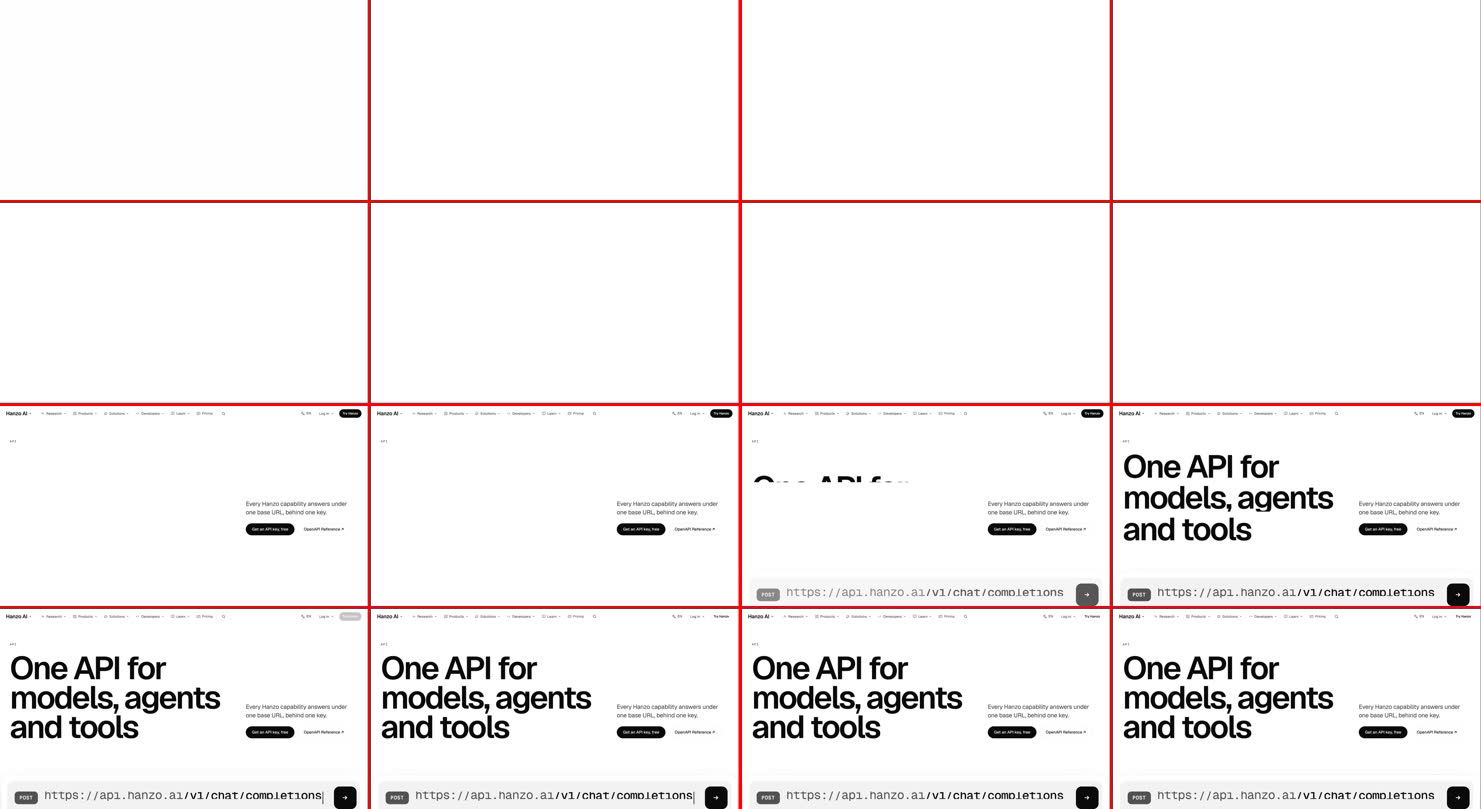
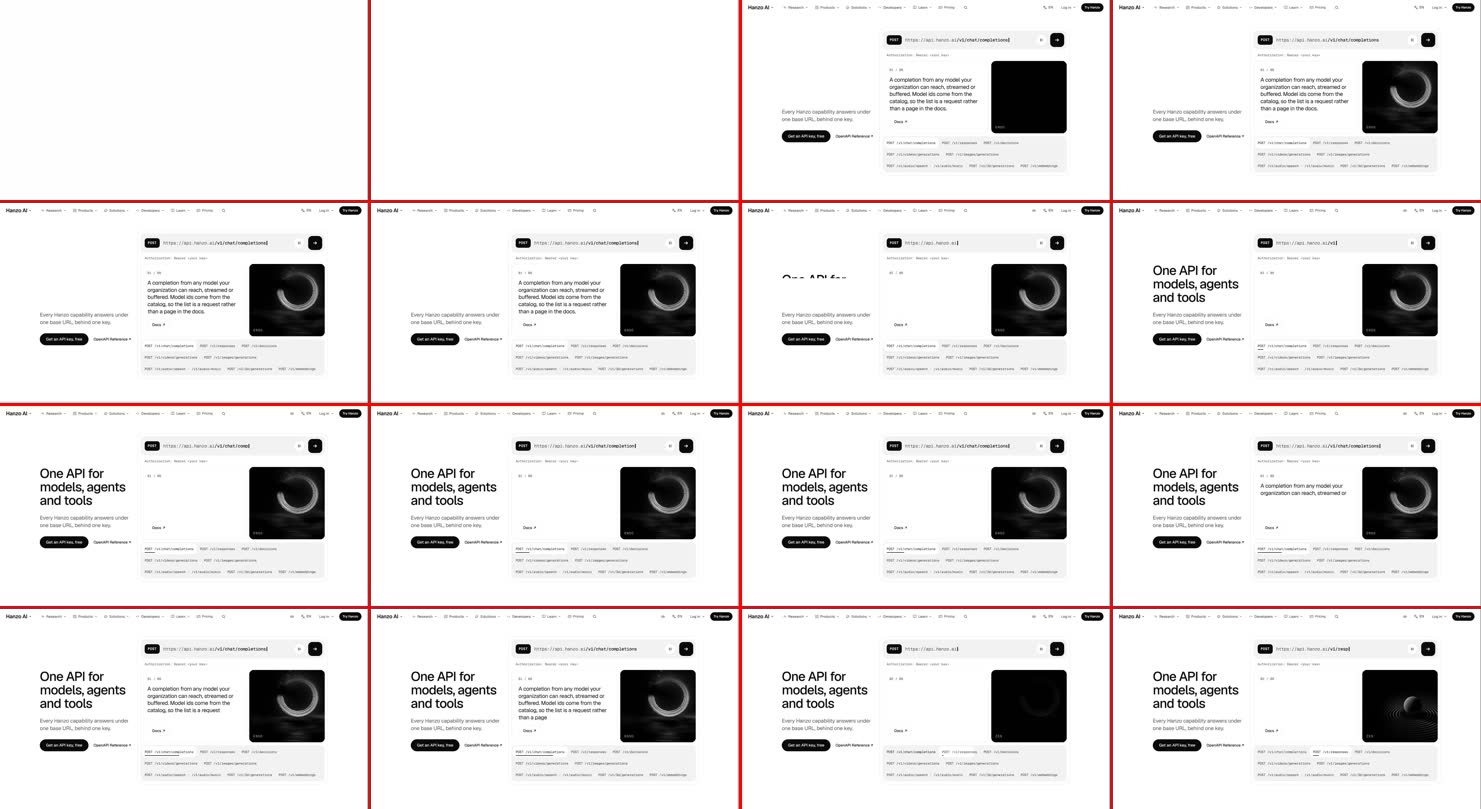
review: /api 7/10 at aea817e (much better; no coverage card)
Claude-Session: https://claude.ai/code/session_01DqUybDEA5FZ4ZbAGVya4QA

diff --git a/docs/review/api.md b/docs/review/api.md
@@ -1,52 +1,56 @@
 # /api — James-eye review
 
-Verdict: 6/10
-First complaint: "The thing that's meant to be the hero is cut in half at the bottom of my screen, and there's a pill bar floating over the text."
+Verdict: 7/10
+First complaint: "Much better. But the button up top still says 'Try Hanzo' on the API page, and the base URL gets chopped off on my phone."
 
-Walked 7 Nov, page file at `4b53974` (`components/pages/ApiPage.jsx`, `ApiPage.css`, shared `v2/AppStage`, `AppScenes`, `v2/x-edison/AppLines`), on the 14:43 preview of main plus the Apps branches, judged against `docs/MASTER.md` and `docs/JAMES.md`.
-- **This build:** a 9-second first-screen film at 1470×801 and 375×812 with no input, hover and press on the primary, a full scroll pass at both widths, reduced motion, JS off and phone tap targets.
-- **The earlier `f44badd` walk:** the full moving walk, with the same layout, is where the phone layout-shift figure comes from.
+Walked 7 Nov, page file at `aea817e` (`components/pages/ApiPage.jsx`, `ApiPage.css`), on the 15:08 preview (main with the shared system `648b798`, plus the Apps branches), judged against `docs/MASTER.md` and `docs/JAMES.md`. The walk covered:
+- a 9-second first-screen film at 1470×801 and 375×812 with no input;
+- hover and press on the primary;
+- a full scroll pass at both widths;
+- a layout-shift pass at both widths: 12 s idle on the hero, then a slow scroll to the end;
+- reduced motion, JS off and phone tap targets.
 
-Stills: `review/api/desktop-walk.jpg`, `review/api/phone-walk.jpg`, `review/api/desktop-first-9s.jpg`.
+The page files did not change during the walk. Stills: `review/api/desktop-walk.jpg`, `review/api/phone-walk.jpg`, `review/api/desktop-first-9s.jpg`.
 
 ## What works
-- The idea is right. A big console types each endpoint after `https://api.hanzo.ai`, streams what it returns, and plays the real model film beside it (Enso, Koma, Iro…). Colour now comes only from those films: the page is monochrome and taste.py passes.
-- "How it fits together" is a real pinned scene: four chapters, the text holds while the panel changes.
-- The base URL in a black room is a strong moment. Copy confirms. "Copy as curl" exists.
-- Press scales .98, hover darkens, every desktop hover answers. JS off hides 0 of 39 text blocks. Reduced motion leaves 0 running. Parity: text 80/80, links 18/18.
+- **The first screen now sells.** A 52px headline, lede and "Get an API key, free" sit left of the live console. The console types the path after `https://api.hanzo.ai`, streams the answer and plays the model film (Enso, Zen…). It is in view at 1470×801 and moving within the first second.
+- **One focal point per screen,** with real rhythm: big console, medium headline, small captions.
+- **The chapter panes are real now:** the route list with its bearer line, client and downstream headers, the OpenAPI and client columns.
+- **The black room** has a styled endpoint list (no browser select), and Copy as curl confirms.
+- **The page ends on a Band:** "Every Hanzo capability answers under one base URL, behind one key." with the ask once more.
+- **Checks:**
+  - no labels over headings, no floating bar;
+  - layout shift 0 at both widths;
+  - JS off hides 1 of 35 text blocks, and reduced motion leaves 0 running;
+  - no phone target under 44px;
+  - taste.py passes;
+  - parity: text 80/80, links 18/18.
 
 ## Card check
-- `docs/coverage/api.md` does not exist, so the verdict is capped at 7. All 18 parts are missing a `Done here:` line.
+- `docs/coverage/api.md` does not exist, so the verdict is capped at 7. All 18 parts are missing a `Done here:` line. The header comment does now carry Persona, Goal, CTA and the metric.
 
 ## The 11 answers
-1. **Sells in 5 seconds, moves within 1 second?** The words sell, but at 1470×801 the console starts at y≈690, so only its top strip shows. On the slow machine the h1 was the last thing to arrive (about 7 s), after the lede and buttons. Above the fold, the only mover is a caret.
-2. **One in, one out, or a document?** The chapters are a scene. "Core endpoints" is a 15-row accordion list, a document, though the detail opens on click.
-3. **A real visual object in every section?** Mostly. The chapter panes are partly grey bars standing in for UI ("One key, one bill" is a list of stripes), not real product.
-4. **One ask, in the sticky header?** No. The header says "Try Hanzo", but the page's ask is "Get an API key, free". That ask rides in a floating pill at the bottom of the desktop screen, over the chapter text, the black room and the endpoint list. The page also never repeats the ask at the end; it closes on two equal "NEXT" cards.
-5. **Every hover and press answers, no jumps?** Desktop yes. On phone, some endpoint rows gave no visible answer to a tap. "console" (25px) and "Body and parameters" (22px) are under the 44px target.
-6. **Overlaps, font swap, layout shift?** The floating pill overlaps content at 1470×801. On phone the console changes height as each answer streams, and the sections below jump: 0.46 layout shift on the full walk (`f44badd`, same layout).
-7. **Which reference, is its motion there?** Apple product page (pinned chapters): yes. MASTER §4.6 developer hero is a code block with the existing request, the streamed response and Copy beside the key ask. That is not in the first screen, and there are no language tabs.
-8. **Different from neighbours?** Partly. Its stage, chapters and kit are shared with /bot, /desktop and /cli; the hero (console plus model film) is its own.
+1. **Sells in 5 seconds, moves within 1 second?** Yes: the console types at once. On this loaded machine the headline's cut-in came a few seconds after the console. Make sure it paints first.
+2. **One in, one out, or a document?** Scenes through the chapters and the black room. "Core endpoints" is still a 15-row list, but each row opens.
+3. **A real visual object in every section?** Yes.
+4. **One ask, in the sticky header?** The header shows "Try Hanzo" (shared header label; the page has filed a request), while the page's ask is "Get an API key, free". The hero and Band carry the right ask with one solid each.
+5. **Every hover and press answers, no jumps?** Yes: press .98, hover darkens, rows open.
+6. **Overlaps, font swap, layout shift?** None. One flaw on phone: in the black room, the display-size `https://api.hanzo.ai/v1` is clipped at the right edge ("…hanzo.ai/v").
+7. **Which reference, is its motion there?** Apple product page (product as hero, pinned chapters): yes. The MASTER §4.6 developer hero (request, streamed response, key ask beside it): yes.
+8. **Different from neighbours?** Yes: a console with model film, unlike /cli's terminal room or /gen's board.
 9. **18 parts (MASTER §2)?** No card. See below.
-10. **Banned tells?** Yes:
-    - labels directly above the h1 ("API") and above h2s ("UNDER THE HOOD", "BASE URL", "REFERENCE", "NEXT");
-    - a floating pill bar over content;
-    - a 128px h1 filling the first screen while the hero object is pushed off it.
+10. **Banned tells?** None found on this build.
 11. **Copy untouched?** Yes (parity clean).
 
 ## Missing from the 18 parts
-- **Card:** no coverage card, and no `Persona:` / `Goal:` / `CTA:` / metric lines.
-- **Part 3 First impression:** the hero object is not in the first screen. No closing `Band`.
-- **Part 4 Conversion:** the header ask does not match; the ask floats; it is not repeated after proof or at the end.
-- **Part 7 Visual system:** labels over headings; placeholder bars in the chapter panes.
-- **Part 8 Components:** the dark room's endpoint picker is a browser select.
-- **Part 11 Mobile:** phone layout shift; small targets.
-- **Part 16 Developer:** no readable request and response pair in the hero; no curl / Python / JS tabs.
+- **Card:** `docs/coverage/api.md` is missing (caps at 7).
+- **Part 4 Conversion:** the header label (shared) should read the page's ask. The two "Next" cards sit as equal boxes just before the Band.
+- **Part 11 Mobile:** the base URL is clipped at 375.
+- **Part 16 Developer:** no curl / Python / JS tabs on the request.
 
 ## Fixes (in order)
-1. **Bring the console into the first screen.** Put the h1 at rest size (52px per MASTER §3.1, or a little larger as the moment) beside the console, so the path typing and the streamed answer play above the fold within the first second. Paint the h1 first; let the mask start from its final place.
-2. **The ask goes in the header.** "Get an API key, free" in the sticky header for this page (via `lib/cta.js`; write `docs/requests/api.md` for the shared part). Turn off the floating desktop pill. End on a `Band` that repeats the ask once.
-3. **Fix the phone jump.** Give the console a fixed height (its longest answer) so nothing below moves while it streams.
-4. **Delete every label sitting directly above a heading.** Keep the mono style for chapter captions and figure labels.
-5. **Make the chapters real.** Replace the grey bars with the page's own request lines, route names and client names. Swap the browser select in the dark room for the page's own styled list.
-6. **Write `docs/coverage/api.md`**: 18 parts, each with real evidence.
+1. **Write `docs/coverage/api.md`**: 18 parts, each with real evidence. This is the only thing between the page and 8.
+2. **Fix the phone base URL.** Let it wrap after `api.hanzo.ai`, or size it to fit 375, so `/v1` is seen.
+3. **Fold "Next" into the Band.** Make "API reference" and "Getting started" two text rows under the Band's ask, not two boxes before it.
+4. **Paint the h1 first,** then start the console, so the words lead on a slow laptop.
+5. **(shared)** Follow up the header-label request so the header reads "Get an API key, free" on this page.
